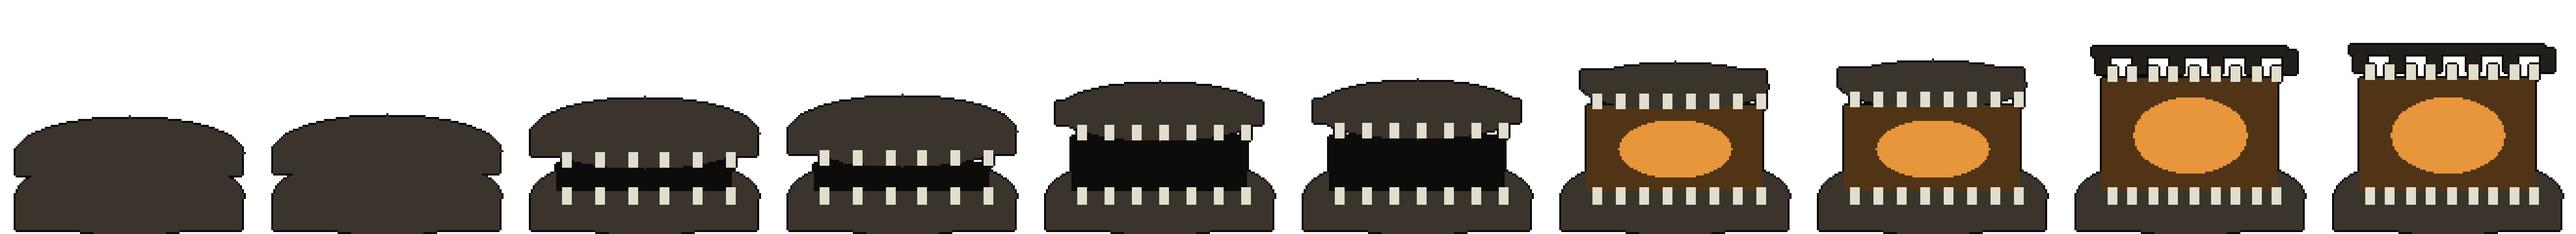
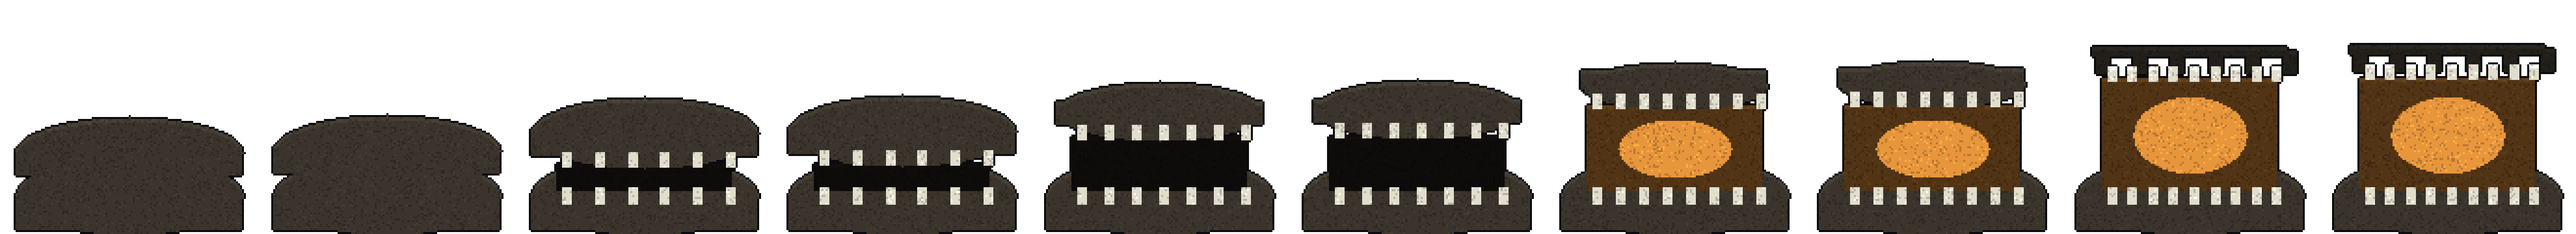
5페이즈 보스 다섯 — 마감까지 올린다
지난 커밋은 실루엣 초안이었다. 기존 손그림 보스(최초의 파수꾼 · 공창의 관리자 ·
증식체)를 늘어놓고 보니 마감이 셋뿐이라, 그 셋만 따라 해서 화풍을 맞췄다:
평평한 덩어리에 얼룩 점묘 · 덩어리마다 위쪽 한 줄이 밝게 · 금·청록 작은 장식.
두껍게 렌더링하지 않는다.

■ 굽다가 두 번 틀렸다

  점묘 해시를 `(x*A) ^ (y*B) ^ (seed*C)` 로 썼더니 x·y 에 규칙이 남아 **골덴
  같은 사선 줄무늬**가 나왔다 — 얼룩이 아니라 무늬다. 정수 해시의 마무리
  섞음(shift·곱·shift)까지 돌려야 흩어진다.

  팔다리를 line(..., t) 로 그었더니 전부 성냥개비가 됐다. 그 굵기는 **아래로만**
  번져서 세로획만 두꺼워지고 대각선은 1픽셀로 남는다. 경로를 따라 원을 찍는
  stroke() 를 따로 두고 팔·다리·촉수를 전부 그쪽으로 옮겼다.

■ 장식

  원형은 어깨판과 가슴 띠와 몸통 이음매, 헤파는 어깨띠·허리띠, 환원기는 축의
  마디. 이게 없으면 크기만 커진 네모라 '만들다 만 사람' 으로 안 읽힌다.

다섯 다 시트 규격대로 실리고, 마디 0~4 가 그림 0~4 를 그대로 쓰고, 체력
100→1% 로 훑는 AI 도 터지지 않는다.

Claude-Session: https://claude.ai/code/session_015bTXkb4q3SzK7wZ8JdbtYP

diff --git a/game/index.html b/game/index.html
@@ -4,7 +4,7 @@
 <meta charset="utf-8">
 <meta name="viewport" content="width=device-width,initial-scale=1">
 <title>Ashfall Chronicles — 별이 잠든 땅</title>
-<link rel="stylesheet" href="css/style.css?v=208">
+<link rel="stylesheet" href="css/style.css?v=209">
 </head>
 <body>
 
@@ -448,19 +448,19 @@
   </div>
 </div>
 
-<script src="js/util.js?v=208"></script>
-<script src="js/data.js?v=208"></script>
-<script src="js/world.js?v=208"></script>
-<script src="js/tileart.js?v=208"></script>
-<script src="js/itemart.js?v=208"></script>
-<script src="js/titlebg.js?v=208"></script>
+<script src="js/util.js?v=209"></script>
+<script src="js/data.js?v=209"></script>
+<script src="js/world.js?v=209"></script>
+<script src="js/tileart.js?v=209"></script>
+<script src="js/itemart.js?v=209"></script>
+<script src="js/titlebg.js?v=209"></script>
 <!-- 매니페스트는 sprites.js 보다 먼저. file:// 에서 fetch 가 막히므로 <script> 로 넣는다 -->
-<script src="assets/sprites-manifest.js?v=208"></script>
-<script src="assets/sprites.js?v=208"></script>
-<script src="js/entity.js?v=208"></script>
-<script src="js/factory.js?v=208"></script>
-<script src="js/ui.js?v=208"></script>
-<script src="js/music.js?v=208"></script>
-<script src="js/game.js?v=208"></script>
+<script src="assets/sprites-manifest.js?v=209"></script>
+<script src="assets/sprites.js?v=209"></script>
+<script src="js/entity.js?v=209"></script>
+<script src="js/factory.js?v=209"></script>
+<script src="js/ui.js?v=209"></script>
+<script src="js/music.js?v=209"></script>
+<script src="js/game.js?v=209"></script>
 </body>
 </html>

diff --git a/tools/mkbossbig.py b/tools/mkbossbig.py
@@ -1,5 +1,5 @@
 #!/usr/bin/env python3
-"""5페이즈 보스 다섯의 시트를 다시 짠다 — **규격과 뼈대까지**. 마무리는 다음 판.
+"""5페이즈 보스 다섯의 시트를 다시 짠다 — 규격 · 실루엣 · 마감까지.
 
 ■ 왜 다시 짜나
 
@@ -47,11 +47,11 @@
      2 안쪽 축이 드러난다           3 고리가 거꾸로 돈다
      4 축만 남고 고리는 궤도로 흩어진다
 
-■ 이번 판에서 어디까지
+■ 마감은 기존 손그림 보스에서 가져왔다
 
-  규격(프레임 크기 · 10칸) · 매니페스트 · 판정 상자 · 그리고 마디마다 갈리는
-  **실루엣**까지다. 낱낱의 질감과 손질은 다음 판이다. 지금 구운 것도 게임에
-  붙어서 돌아가므로, 붙여 놓고 다듬으면 된다.
+  최초의 파수꾼 · 공창의 관리자 · 증식체를 늘어놓고 보면 마감이 셋뿐이다:
+  평평한 덩어리에 **얼룩 점묘**, 덩어리마다 **위쪽 한 줄이 밝고**, 금·청록
+  **작은 장식**. 두껍게 렌더링하지 않는다. 그 셋만 따라 해서 화풍을 맞췄다.
 
 사용법:  python3 tools/mkbossbig.py && node tools/sync-manifest.mjs
 """
@@ -105,6 +105,64 @@ class Canvas:
             u = i / n
             for k in range(t):
                 self.dot(x0 + (x1 - x0) * u, y0 + (y1 - y0) * u + k, col)
+
+    def stroke(self, x0, y0, x1, y1, r, col):
+        """경로를 따라 원을 찍는 굵은 획.
+
+        ★ line(..., t) 로는 안 된다. 그 굵기는 **아래로만** 번져서 세로획은
+          두꺼워지지만 대각선은 1픽셀로 남는다 — 팔다리가 전부 성냥개비가
+          되어 나왔다. 굵은 팔다리는 이쪽으로 긋는다."""
+        n = int(max(abs(x1 - x0), abs(y1 - y0))) + 1
+        for i in range(n + 1):
+            u = i / n
+            self.ell(x0 + (x1 - x0) * u, y0 + (y1 - y0) * u, r, r, col)
+
+    # ---------------- 마감 붓 — 다 그린 다음 한 번씩 지나간다 ----------------
+    # 기존 손그림 보스(최초의 파수꾼 · 관리자 · 증식체)를 보면 마감이 셋뿐이다:
+    # 평평한 덩어리에 **얼룩 점묘**, 덩어리마다 **위쪽 한 줄이 밝고**, 금·청록
+    # **작은 장식**. 두껍게 렌더링하지 않는다. 그 셋만 따라 한다.
+
+    def speck(self, seed, dens=0.12, dark=0.80, lite=1.16):
+        """칠해진 칸에만 얼룩을 뿌린다. 칸마다 정해진 값이라 프레임이 넘어가도
+           얼룩이 옮겨 다니지 않는다 — 난수로 뿌리면 그림이 지글거린다."""
+        for y in range(self.h):
+            for x in range(self.w):
+                a = self.px[x, y]
+                if a[3] == 0:
+                    continue
+                # ★ 단순 곱·xor 로는 안 된다. x·y 에 규칙이 남아 **골덴 같은
+                #   사선 줄무늬**가 나왔다(얼룩이 아니라 무늬가 된다).
+                #   정수 해시의 마무리 섞음(shift·곱·shift)까지 돌려야 흩어진다.
+                v = (x * 374761393 + y * 668265263 + seed * 1442695041) & 0xFFFFFFFF
+                v ^= v >> 13
+                v = (v * 1274126177) & 0xFFFFFFFF
+                v ^= v >> 16
+                v &= 1023
+                if v < dens * 1024:
+                    self.dot(x, y, shade(a, dark))
+                elif v > 1023 - dens * 512:
+                    self.dot(x, y, shade(a, lite))
+
+    def toplight(self, k=1.22, n=2):
+        """열마다 맨 위 n 칸을 밝힌다. 덩어리가 위에서 빛을 받는 것처럼 보인다."""
+        for x in range(self.w):
+            hit = 0
+            prev = False
+            for y in range(self.h):
+                on = self.px[x, y][3] > 0
+                if on and not prev:
+                    hit += 1
+                    if hit <= 2:                 # 몸통과 그 위 덩어리까지만
+                        for k2 in range(n):
+                            if y + k2 < self.h and self.px[x, y + k2][3] > 0:
+                                self.dot(x, y + k2, shade(self.px[x, y + k2], k))
+                prev = on
+
+    def trim(self, x, y, w, col, gap=3):
+        """금속 띠에 박은 작은 장식 — 참고한 보스들이 다 갖고 있다."""
+        self.rect(x, y, w, 3, shade(col, 0.55))
+        for i in range(0, int(w), gap):
+            self.dot(x + i + 1, y + 1, col)
 
     def outline(self, col=(10, 10, 14)):
         """몸에 닿은 빈 칸을 한 겹 두른다. 전부 그린 다음 마지막에 한 번."""
@@ -171,7 +229,7 @@ def draw_pursuer(c, ph, fr, W, H, base, glow):
     for i in range(arms):
         a = -2.5 + i * (1.7 / max(arms - 1, 1))
         ex, ey = cx + math.cos(a) * 58, cy + math.sin(a) * 46
-        c.line(cx, cy, ex, ey, body if ph < 4 else glow, 4 if ph < 3 else 2)
+        c.stroke(cx, cy, ex, ey, 6 if ph < 3 else 3, body if ph < 4 else glow)
         c.ell(ex, ey, 5, 5, dark if ph < 4 else glow)
     # 눈 — 마디마다 늘어난다
     for i in range(ph + 1):
@@ -229,6 +287,8 @@ def draw_hepha(c, ph, fr, W, H, base, glow):
     # 몸통
     c.rect(cx - 30, cy - 30, 60, 66, body)
     c.rect(cx - 30, cy - 30, 60, 10, shade(base, 1.18))
+    c.trim(cx - 26, cy - 18, 52, (60, 44, 24), 4)     # 어깨띠
+    c.trim(cx - 26, cy + 24, 52, (60, 44, 24), 4)     # 허리띠
     # 등의 화로 — 2페이즈에 열린다
     if ph >= 2:
         c.rect(cx - 14, cy - 12, 28, 30, (24, 18, 12))
@@ -242,7 +302,7 @@ def draw_hepha(c, ph, fr, W, H, base, glow):
         a = -0.5 - k * 0.34
         ex = cx + side * (34 + math.cos(a) * 40)
         ey = cy - 10 + math.sin(a) * 34
-        c.line(cx + side * 26, cy - 8, ex, ey, body, 5 if arms == 4 else 3)
+        c.stroke(cx + side * 26, cy - 8, ex, ey, 5 if arms == 4 else 3, body)
         c.ell(ex, ey, 5, 5, dark)
     # 머리
     c.rect(cx - 13, cy - 48, 26, 20, body)
@@ -277,20 +337,25 @@ def draw_archetype(c, ph, fr, W, H, base, glow):
     # 다리 — 2페이즈에 땅을 짚는다
     if ph >= 2:
         for sx in (-1, 1):
-            c.line(cx + sx * 12, cy + 30, cx + sx * 18 + tilt, floor, body, 9)
+            c.stroke(cx + sx * 12, cy + 30, cx + sx * 18 + tilt, floor, 7, body)
     else:
         for sx in (-1, 1):
-            c.line(cx + sx * 12, cy + 30, cx + sx * 16, cy + 56, dark, 7)
-    # 몸통
+            c.stroke(cx + sx * 12, cy + 30, cx + sx * 16, cy + 56, 6, dark)
+    # 몸통 — 참고한 보스들처럼 가슴에 띠 하나와 어깨판을 둔다.
+    # 이게 없으면 그냥 네모라 크기만 커지고 '만들다 만 사람'으로 안 읽힌다.
     c.rect(cx - 22 + tilt, cy - 24, 44, 56, body)
     c.rect(cx - 22 + tilt, cy - 24, 44, 8, shade(base, 1.1))
+    for sx in (-1, 1):                           # 어깨판
+        c.rect(cx + sx * 22 - 9 + tilt, cy - 22, 18, 12, shade(base, 0.82))
+    c.trim(cx - 17 + tilt, cy - 4, 34, glow)     # 가슴 띠
+    c.line(cx + tilt, cy + 6, cx + tilt, cy + 30, shade(base, 0.72))   # 이음매
     # 팔 — 1페이즈에 한 쪽이 풀린다
     free = [0, 1, 1, 2, 2][ph]
     for i, sx in enumerate((-1, 1)):
         if i < free:
-            c.line(cx + sx * 20 + tilt, cy - 14, cx + sx * 44, cy + 22, body, 8)
+            c.stroke(cx + sx * 20 + tilt, cy - 14, cx + sx * 44, cy + 22, 6, body)
         else:
-            c.line(cx + sx * 20 + tilt, cy - 14, cx + sx * 34, cy - 44, dark, 8)
+            c.stroke(cx + sx * 20 + tilt, cy - 14, cx + sx * 34, cy - 44, 6, dark)
     # 머리
     c.ell(cx + tilt, cy - 36, 14, 16, body)
     for sx in (-1, 1):
@@ -321,6 +386,8 @@ def draw_restorer(c, ph, fr, W, H, base, glow):
     if ph >= 2:
         c.rect(cx - 9, cy - 44, 18, 88, body)
         c.rect(cx - 9, cy - 44, 18, 8, shade(base, 1.15))
+        for yy in range(-30, 44, 18):                # 축의 마디
+            c.rect(cx - 11, cy + yy, 22, 3, shade(base, 0.62))
     core = [10, 13, 17, 21, 26][ph]
     c.ell(cx, cy, core, core, glow if ph >= 2 else shade(glow, 0.55))
     c.ell(cx, cy, core * 0.45, core * 0.45, (255, 252, 240))
@@ -349,6 +416,8 @@ def main():
             ph, fr = i // 2, i % 2
             c = Canvas(fw, fh)
             PAINT[name](c, ph, fr, fw, fh, base, glow)
+            c.toplight()
+            c.speck(seed=i * 7 + len(name))
             c.outline()
             sheet.paste(c.im.resize((fw * S, fh * S), Image.NEAREST), (i * fw * S, 0))
         p = os.path.join(OUT, name + '.png')
